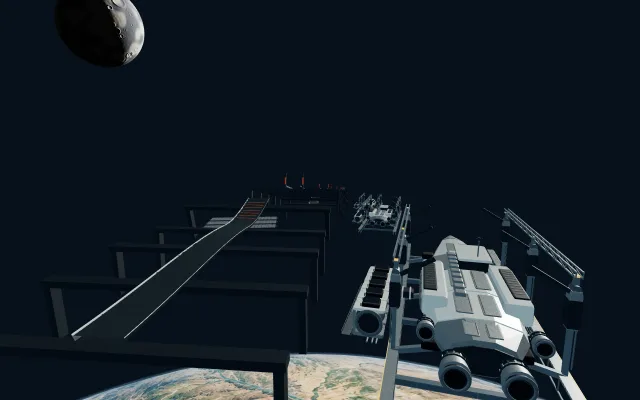
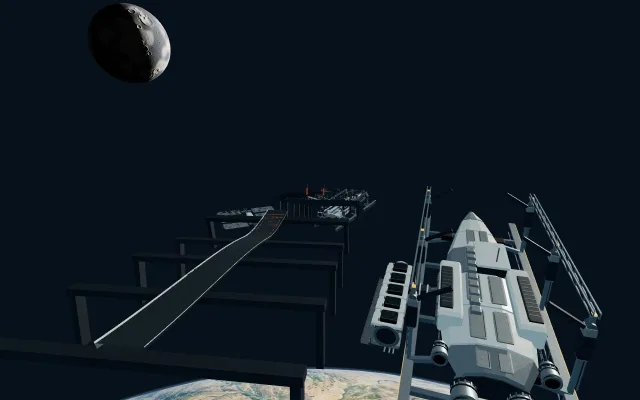
Curve freestyle transfers and unify directional trick controls

diff --git a/games/vector-nova/src/levels/launchworks/track/model.js b/games/vector-nova/src/levels/launchworks/track/model.js
@@ -16,33 +16,54 @@ const hermite = (a, b, t) => {
 // opens over the planet into a long, visibly falling receiving apron.
 export function createLaunchworksTrack() {
   const lips = Array.from({ length: 5 }, (_, i) => ({
-    z: 420 + i * 1000,
+    z: 420 + i * 1450,
     y: 900 - i * 145,
   }));
+  const headings = [0, 0.42, -0.32, 0.38, -0.28];
+  function yawAt(station) {
+    for (let i = 1; i < lips.length; i++) {
+      const start = lips[i - 1].z + 960;
+      const end = lips[i].z - 180;
+      if (station < start) return headings[i - 1];
+      if (station <= end) {
+        const t = (station - start) / (end - start);
+        const blend = t * t * t * (t * (6 * t - 15) + 10);
+        return T.MathUtils.lerp(headings[i - 1], headings[i], blend);
+      }
+    }
+    return headings.at(-1);
+  }
   const nodes = [{ z: 0, y: 875, slope: 0 }];
   for (const lip of lips)
     nodes.push(
       { z: lip.z - 130, y: lip.y - 20, slope: -0.08 },
       { ...lip, slope: 0.26 },
-      { z: lip.z + 360, y: lip.y - 25, slope: -0.22 },
-      { z: lip.z + 740, y: lip.y - 108.6, slope: -0.22 },
+      { z: lip.z + 400, y: lip.y - 25, slope: -0.18 },
+      { z: lip.z + 940, y: lip.y - 122.2, slope: -0.18 },
     );
-  const finishZ = lips.at(-1).z + 820,
+  const finishZ = lips.at(-1).z + 1050,
     endZ = finishZ + 500;
   nodes.push(
-    { z: finishZ, y: lips.at(-1).y - 120, slope: -0.04 },
-    { z: endZ, y: lips.at(-1).y - 125, slope: 0 },
+    { z: finishZ, y: lips.at(-1).y - 133, slope: -0.04 },
+    { z: endZ, y: lips.at(-1).y - 140, slope: 0 },
   );
   const samples = [],
     distances = [];
   let segment = 0,
-    length = 0;
+    length = 0,
+    x = 0,
+    forward = 0;
   for (let z = 0; z <= endZ; z++) {
     while (segment + 1 < nodes.length - 1 && z > nodes[segment + 1].z)
       segment++;
     const a = nodes[segment],
       b = nodes[segment + 1];
-    const p = new T.Vector3(0, hermite(a, b, (z - a.z) / (b.z - a.z)), z);
+    if (z > 0) {
+      const yaw = yawAt(z - 0.5);
+      x += Math.sin(yaw);
+      forward += Math.cos(yaw);
+    }
+    const p = new T.Vector3(x, hermite(a, b, (z - a.z) / (b.z - a.z)), forward);
     if (samples.length) length += p.distanceTo(samples.at(-1));
     samples.push(p);
     distances.push(length);
@@ -65,29 +86,36 @@ export function createLaunchworksTrack() {
       .clone()
       .sub(samples[Math.max(0, lo - 1)])
       .normalize();
-    const right = new T.Vector3(1, 0, 0),
+    const right = new T.Vector3()
+        .crossVectors(new T.Vector3(0, 1, 0), tangent)
+        .normalize(),
       up = new T.Vector3().crossVectors(tangent, right).normalize();
+    // Open-course cameras need a real chase offset even at distance zero.
+    if (distance !== s) position.addScaledVector(tangent, distance - s);
+    const curvature =
+      (yawAt(Math.min(endZ, lo + 1)) - yawAt(Math.max(0, lo - 1))) /
+      (distances[Math.min(endZ, lo + 1)] - distances[Math.max(0, lo - 1)]);
     const quaternion = new T.Quaternion().setFromRotationMatrix(
       new T.Matrix4().makeBasis(right, up, tangent),
     );
-    return { position, tangent, right, up, quaternion, curvature: 0, bank: 0 };
+    return { position, tangent, right, up, quaternion, curvature, bank: 0 };
   }
   const jumps = lips.map((lip, i) => ({
     id: `transfer-${i + 1}`,
     label: `Transfer ${i + 1}`,
     takeoff: distanceAt(lip.z),
-    landingStart: distanceAt(lip.z + 360),
-    landingEnd: distanceAt(lip.z + 740),
-    recovery: distanceAt(lip.z + 745),
+    landingStart: distanceAt(lip.z + 400),
+    landingEnd: distanceAt(lip.z + 940),
+    recovery: distanceAt(lip.z + 945),
     halfWidth: WIDTH / 2,
-    target: distanceAt(lip.z + 560),
+    target: distanceAt(lip.z + 760),
     targetLateral: [-4, 4, 0, -5, 5][i],
   }));
   const finishDistance = distanceAt(finishZ);
   return {
-    id: 'asterion-launchworks-v1',
+    id: 'asterion-launchworks-v2',
     name: 'Asterion Launchworks',
-    geometryVersion: 'five-aprons-v1',
+    geometryVersion: 'five-bending-aprons-v2',
     length,
     width: WIDTH,
     closed: false,
@@ -95,6 +123,7 @@ export function createLaunchworksTrack() {
     sample,
     jumps,
     distanceAt,
+    endStation: endZ,
     // Receiver momentum, rather than repeated full-reserve boosts, supplies
     // the next launch. This pace profile belongs only to the transfer course.
     pace: {
@@ -127,13 +156,12 @@ export function createLaunchworksTrack() {
         ],
         [
           `jump${i + 1}-success`,
-          { distance: j.takeoff - 2, speed: 145, lateral: j.targetLateral },
+          { distance: j.takeoff - 2, speed: 166, lateral: j.targetLateral },
         ],
       ]),
     ]),
-    bounds: new T.Box3(
-      new T.Vector3(-900, 0, -600),
-      new T.Vector3(900, 1500, endZ + 600),
-    ),
+    bounds: new T.Box3()
+      .setFromPoints(samples)
+      .expandByVector(new T.Vector3(900, 600, 600)),
   };
 }

diff --git a/games/vector-nova/src/freestyle/overlay.js b/games/vector-nova/src/freestyle/overlay.js
@@ -9,7 +9,7 @@ export function createFreestyleOverlay({ host }) {
   root.innerHTML =
     '<div class="fs-score"><span>FREESTYLE / STOCK BUILD</span><strong>0</strong><small>CHAIN <b>—</b></small></div><div class="fs-links" aria-label="Five transfers">' +
     Array.from({ length: 5 }, (_, i) => `<i>${i + 1}</i>`).join('') +
-    '</div><div class="fs-flight"><span class="fs-phase">BUILD LAUNCH SPEED</span><strong class="fs-trick">Five transfers. One chain.</strong><div class="fs-rotation"><i></i></div><p class="fs-catch">Aim for the mint receiving lane.</p><small class="fs-last"></small></div><div class="fs-controls"><span><b>CTRL + ↑↓ / WASD</b> FLIP / SPIN</span><span><b>SHIFT + ←→ / AD</b> ROLL</span><span><b>SPACE</b> CATCH / ROTATION BRAKE</span></div>';
+    '</div><div class="fs-flight"><span class="fs-phase">BUILD LAUNCH SPEED</span><strong class="fs-trick">Five transfers. One chain.</strong><div class="fs-rotation"><i></i></div><p class="fs-catch">Aim for the mint receiving lane.</p><small class="fs-last"></small></div><div class="fs-controls"><span><b>CTRL + DIRECTION</b> ↑↓ / WS FLIP · ←→ / AD ROLL · COMBINE BOTH</span><span><b>CTRL + Q / E</b> FLAT SPIN</span><span><b>SPACE</b> CATCH / ROTATION BRAKE</span></div>';
   host.append(root);
   const score = root.querySelector('.fs-score>strong'),
     chain = root.querySelector('.fs-score small b'),
@@ -27,10 +27,14 @@ export function createFreestyleOverlay({ host }) {
       const names = frame.gamepad
         ? [
             'X + LEFT STICK',
-            'Y + ← / →',
+            'X + RIGHT STICK',
             controllerLayout(frame.settings).airbrake,
           ]
-        : ['CTRL + DIRECTION', 'SHIFT + ←→ / AD', 'SPACE'];
+        : ['CTRL + DIRECTION', 'CTRL + Q / E', 'SPACE'];
+      root.querySelector('.fs-controls span').lastChild.textContent =
+        frame.gamepad
+          ? ' FLIP / ROLL · COMBINE BOTH'
+          : ' ↑↓ / WS FLIP · ←→ / AD ROLL · COMBINE BOTH';
       controls.forEach((node, i) => {
         node.textContent = names[i];
       });
@@ -78,7 +82,7 @@ export function createFreestyleOverlay({ host }) {
               : seconds != null && seconds < 0.7
                 ? `Tap ${names[2]} to catch.`
                 : 'Settle the hull. Aim for the mint lane.'
-        : 'Boost on approach. Carry speed into the next launch.';
+        : 'Ride the Vector strip into each launch. Keep your line through the bends.';
       const leg = data.legs.at(-1);
       last.textContent = leg
         ? `${leg.reason} · ${leg.bank ? `+${leg.bank.toLocaleString()}` : 'chain broken'}`

diff --git a/games/vector-nova/src/levels/launchworks/track/model.test.js b/games/vector-nova/src/levels/launchworks/track/model.test.js
@@ -1,0 +1,60 @@
+import test from 'node:test';
+import assert from 'node:assert/strict';
+import * as T from 'three';
+import { createLaunchworksTrack } from './model.js';
+import { createLaunchworksDevices } from '../devices.js';
+import { createCameraRig } from '../../../camera/index.js';
+import { createVehicleState } from '../../../physics/index.js';
+
+test('every transfer has a supported wide Vector approach and an unobstructed ballistic line', () => {
+  const track = createLaunchworksTrack(),
+    devices = createLaunchworksDevices(track);
+  assert.equal(devices.length, 5);
+  const headings = [];
+  for (const [i, jump] of track.jumps.entries()) {
+    const strip = devices[i];
+    assert.equal(strip.type, 'vector');
+    assert.ok(strip.width >= 28);
+    assert.ok(strip.distance + strip.length / 2 < jump.takeoff);
+    assert.equal(track.isGap(strip.distance), false);
+    const launch = track.sample(jump.takeoff),
+      receiver = track.sample(jump.target);
+    const horizontal = receiver.position.clone().sub(launch.position);
+    horizontal.y = 0;
+    assert.ok(
+      Math.abs(horizontal.dot(launch.right)) < 0.02,
+      'a transfer never requires midair turning',
+    );
+    assert.ok(Math.abs(receiver.curvature) < 1e-8);
+    assert.ok(Math.abs(launch.tangent.dot(launch.right)) < 1e-8);
+    headings.push(Math.atan2(launch.tangent.x, launch.tangent.z));
+  }
+  assert.ok(
+    Math.max(...headings) - Math.min(...headings) > 0.6,
+    'the transfers face distinct directions',
+  );
+  assert.ok(
+    track.bounds.max.x - track.bounds.min.x > 2000,
+    'the course uses a lateral footprint',
+  );
+});
+
+test('an open start supplies a chase view behind the stationary racer', () => {
+  const track = createLaunchworksTrack(),
+    start = track.sample(0);
+  assert.ok(
+    track.sample(-18).position.clone().sub(start.position).dot(start.tangent) <
+      -17.9,
+  );
+  const camera = new T.PerspectiveCamera(61, 16 / 9, 0.1, 24000);
+  const rig = createCameraRig(camera, {
+    chaseHeight: 6.5,
+    chaseDistance: 18,
+    lookAhead: 55,
+  });
+  rig.update(track, createVehicleState('shrike'), 1 / 60);
+  assert.ok(
+    camera.position.clone().sub(start.position).dot(start.tangent) < -15,
+  );
+  assert.ok(camera.getWorldDirection(new T.Vector3()).dot(start.tangent) > 0.9);
+});

diff --git a/games/vector-nova/src/frontend/index.js b/games/vector-nova/src/frontend/index.js
@@ -478,7 +478,7 @@ export async function createFrontend(host) {
     }
     const guide =
       intent === 'freestyle'
-        ? `<aside class="freestyle-guide"><h3>Five transfers. Keep the chain.</h3><p><b>Ctrl + direction</b> flips / spins · <b>Shift + left/right</b> rolls. Combine axes, release or countersteer, then tap <b>Space</b> just before touchdown.</p><p class="freestyle-pad-guide">Pad: <b>X + stick</b> flips / spins · <b>Y + horizontal stick</b> rolls · <b>${controllerLayout(settings).airbrake}</b> catches.</p><p>Settle the hull into the mint receiving lane. Clean catches bank tricks, grow the multiplier and carry speed into the next launch. Stock builds · Separate records · Gold 27,000.</p></aside>`
+        ? `<aside class="freestyle-guide"><h3>Five transfers. Keep the chain.</h3><p>Ride the <b>Vector strips</b> into each launch. <b>Ctrl + W/S</b> flips · <b>Ctrl + A/D</b> rolls · <b>Ctrl + Q/E</b> spins. Combine directions, release or countersteer, then tap <b>Space</b> before touchdown. Arrows also work.</p><p class="freestyle-pad-guide">Pad: hold <b>X</b>, use the <b>left stick</b> to flip / roll and <b>right stick</b> to spin · <b>${controllerLayout(settings).airbrake}</b> catches.</p><p>Settle the hull into the mint receiving lane. Clean catches bank tricks, grow the multiplier and carry speed into the next launch. Stock builds · Separate records · Gold 27,000.</p></aside>`
         : '';
     return `<section class="circuit-picker-panel" aria-label="Choose a track"><div class="circuit-hero" aria-live="polite"></div>${guide}<div class="circuit-grid" role="group" aria-label="Tracks">${[
       ...groups,

diff --git a/games/vector-nova/src/levels/launchworks/environment.js b/games/vector-nova/src/levels/launchworks/environment.js
@@ -19,8 +19,19 @@ export function createLaunchworksEnvironment({ track }) {
         ? solarGarden({ wings: 3, radiator: true })
         : drydock({ unfinished: i === 2, scale: 1 });
     const matrix = new T.Matrix4().compose(
-      frame.position.clone().add(new T.Vector3(side * 390, -170, 100)),
-      new T.Quaternion().setFromAxisAngle(new T.Vector3(0, 1, 0), side * 0.18),
+      frame.position
+        .clone()
+        .addScaledVector(frame.right, side * 390)
+        .addScaledVector(frame.up, -170)
+        .addScaledVector(frame.tangent, 100),
+      frame.quaternion
+        .clone()
+        .multiply(
+          new T.Quaternion().setFromAxisAngle(
+            new T.Vector3(0, 1, 0),
+            side * 0.18,
+          ),
+        ),
       new T.Vector3(1.6, 1.6, 1.6),
     );
     group.add(
@@ -35,12 +46,16 @@ export function createLaunchworksEnvironment({ track }) {
   }
   const beamMaterial = materials.dark;
   const beamGeometry = new T.BoxGeometry(1, 1, 1);
-  const beams = new T.InstancedMesh(beamGeometry, beamMaterial, 200);
+  const beams = new T.InstancedMesh(
+    beamGeometry,
+    beamMaterial,
+    Math.ceil(track.endStation / 100) * 3,
+  );
   const matrix = new T.Matrix4(),
     scale = new T.Vector3(),
     p = new T.Vector3();
   let count = 0;
-  for (let z = 0; z < 5100; z += 100) {
+  for (let z = 0; z < track.endStation; z += 100) {
     const distance = track.distanceAt(z);
     if (track.isGap(distance)) continue;
     const frame = track.sample(distance);

diff --git a/games/vector-nova/src/levels/launchworks/index.js b/games/vector-nova/src/levels/launchworks/index.js
@@ -2,6 +2,7 @@ import { createLaunchworksTrack } from './track/model.js';
 import { createLaunchworksRoad } from './track/road.js';
 import { createLaunchworksEnvironment } from './environment.js';
 import { createLaunchworksRuntime } from './runtime.js';
+import { createLaunchworksDevices } from './devices.js';
 import { createOrbitalBackdrop } from '../orbital/backdrop/index.js';
 import { collectProductionSolids } from '../../physics/production-solids.js';
 import { createFreestyleOverlay } from '../../freestyle/overlay.js';
@@ -10,7 +11,7 @@ import { DEVICE_SAMPLES } from '../../pickups/sample-cues.js';
 
 export default function createLevel() {
   return {
-    version: '0.1.0-freestyle-pilot',
+    version: '0.2.0-freestyle-pilot',
     freestyle: true,
     audio: {
       samples: {
@@ -42,7 +43,7 @@ export default function createLevel() {
       collectProductionSolids({
         track,
         id: 'launchworks-solids',
-        geometryId: 'five-aprons-v1',
+        geometryId: 'five-bending-aprons-v2',
         road: createLaunchworksRoad({ track }),
         select: (object) =>
           object.userData.drivingSurface
@@ -52,6 +53,9 @@ export default function createLevel() {
               : null,
       }),
     createRuntime: createLaunchworksRuntime,
-    racing: { createDevices: () => [], createMotion: createLaunchworksRuntime },
+    racing: {
+      createDevices: createLaunchworksDevices,
+      createMotion: createLaunchworksRuntime,
+    },
   };
 }

diff --git a/games/vector-nova/src/levels/launchworks/metadata.js b/games/vector-nova/src/levels/launchworks/metadata.js
@@ -12,7 +12,7 @@ export default {
     intro:
       'Five colossal transfers. Commit a slow trick, recover, and catch the receiving slope. Protect the chain.',
     detail:
-      'Ctrl + direction flips / spins · Shift + left/right rolls. Pad: X + stick flips / spins, Y + stick rolls. Release and settle; tap Space / B before touchdown.',
+      'Ctrl + W/S flips, A/D rolls, Q/E spins. Combine directions for diagonal tricks. Ride the Vector strips into each launch. Pad: X + left stick flips / rolls, X + right stick spins. Release and settle; tap the airbrake before touchdown.',
     tag: 'ASTERION LAUNCHWORKS',
     tagDetail: 'FIVE TRANSFERS / STOCK BUILD',
     start: 'START FREESTYLE',

diff --git a/games/vector-nova/src/input/index.js b/games/vector-nova/src/input/index.js
@@ -148,11 +148,11 @@ export function createInput(
           : pad.equipment1
             ? -(pad.aerialStickY ?? 0)
             : 0;
-        i.aerialYaw = ctrl ? -horizontal : pad.equipment1 ? -pad.steer : 0;
-        i.aerialRoll = down('ShiftLeft', 'ShiftRight')
-          ? -horizontal
-          : pad.equipment2
-            ? -pad.steer
+        i.aerialRoll = ctrl ? -horizontal : pad.equipment1 ? -pad.steer : 0;
+        i.aerialYaw = ctrl
+          ? Number(down('KeyQ')) - Number(down('KeyE'))
+          : pad.equipment1
+            ? -(pad.aerialStickX ?? 0)
             : 0;
       }
       // A touch pulse survives observation and render frames without a physics tick.

diff --git a/games/vector-nova/src/levels/launchworks/devices.js b/games/vector-nova/src/levels/launchworks/devices.js
@@ -1,0 +1,18 @@
+import { createDeviceLayout } from '../../pickups/layout.js';
+
+// Use the ordinary Vector hardware and propulsion; the approach supplies launch
+// speed without spending the pilot's manual boost reserve.
+export function createLaunchworksDevices(track) {
+  return createDeviceLayout(
+    track,
+    track.jumps.map((jump, i) => ({
+      id: `launch-vector-${i + 1}`,
+      type: 'vector',
+      distance: jump.takeoff - 66,
+      lateral: 0,
+      width: 28,
+      length: 68,
+      label: `Transfer ${i + 1} launch strip`,
+    })),
+  );
+}

diff --git a/games/vector-nova/src/levels/launchworks/runtime.js b/games/vector-nova/src/levels/launchworks/runtime.js
@@ -17,8 +17,8 @@ export function createLaunchworksRuntime(context) {
   });
   const motion = model.createRuntime(context, {
     id: 'launchworks-freestyle',
-    version: 1,
-    rulesId: `launchworks-v1:${JSON.stringify({ rules: FREESTYLE_RULES, pace: track.pace })}`,
+    version: 2,
+    rulesId: `launchworks-v2:${JSON.stringify({ rules: FREESTYLE_RULES, pace: track.pace })}`,
     scenarios: Object.fromEntries(
       Object.entries(track.scenarios).map(([id, state]) => [
         id,

diff --git a/games/vector-nova/src/input/gamepad.js b/games/vector-nova/src/input/gamepad.js
@@ -131,6 +131,10 @@ export function createGamepadReader(
                 pad?.axes[1],
                 getSettings().steeringDeadZone,
               ),
+              aerialStickX: steeringAxis(
+                pad?.axes[2],
+                getSettings().steeringDeadZone,
+              ),
             }
           : {}),
       };

diff --git a/games/vector-nova/docs/level-types-and-rewards.md b/games/vector-nova/docs/level-types-and-rewards.md
@@ -132,9 +132,9 @@ These choices can be settled one pilot at a time; the matrix is intended to keep
 
 ## Freestyle browser pilot
 
-**Asterion Launchworks** is a separate five-transfer course using Asterion's existing orbital kit and planet. Considered settings were orbital receiving decks, Nacre's storm crossings and Shatterline's accelerator infrastructure. The orbital array keeps the prototype focused on movement, without changing an approved circuit or commissioning another environment.
+**Asterion Launchworks** is a separate five-transfer course using Asterion's existing orbital kit and planet. Broad ground bends connect differently oriented launch/receiver pairs; the airborne corridors remain straight ballistic transfers. A wide shared Vector strip before every lip supplies launch speed without spending manual boost reserve. Receiving slopes are sized for that propulsion. Considered settings were orbital receiving decks, Nacre's storm crossings and Shatterline's accelerator infrastructure. The orbital array keeps the prototype focused on movement, without changing an approved circuit or commissioning another environment.
 
-Controls are directional: **Ctrl + W/S or ↑/↓ pitches into flips; Ctrl + A/D or ←/→ supplies flat spins; Shift + A/D or ←/→ rolls**. Standard controllers use X + left stick for pitch/yaw and Y + horizontal stick for roll. Axes combine into corkscrews. Rotation builds with torque, carries momentum after release and accepts countersteering. Speed is bounded; recovery consumes airtime. These are actual hull attitudes in the shared contact solver, while the camera follows the ballistic frame. Trick input suppresses boost thrust in flight; ordinary steering remains limited air correction.
+Controls share one modifier: **Ctrl + W/S or ↑/↓ pitches into flips; Ctrl + A/D or ←/→ rolls; Ctrl + Q/E supplies flat spins**. Directions combine: Ctrl + W+A pitches forward while rolling left. Shift remains manual boost and never requests a trick. Standard controllers hold X, using the left stick for pitch/roll and the right stick horizontally for yaw. Axes combine into corkscrews. Rotation builds with torque, carries momentum after release and accepts countersteering. Speed is bounded; recovery consumes airtime. These are actual hull attitudes in the shared contact solver, while the camera follows the ballistic frame. Trick input suppresses boost thrust in flight; ordinary steering remains limited air correction.
 
 Tap **Space / the configured airbrake button** shortly before contact to open a brief catch window and brake rotation. A clean catch also needs a settled hull and the mint receiving lane. Merely reaching the deck or holding Catch throughout the jump does not earn a clean link. Clean links multiply the bank up to five; a miss loses the pending bank and breaks the chain. Connected receivers retain momentum for the next launch. Rolls, flips, flat spins and compound corkscrews are recognized from rotation; repeated tricks within one flight diminish in value.
 
